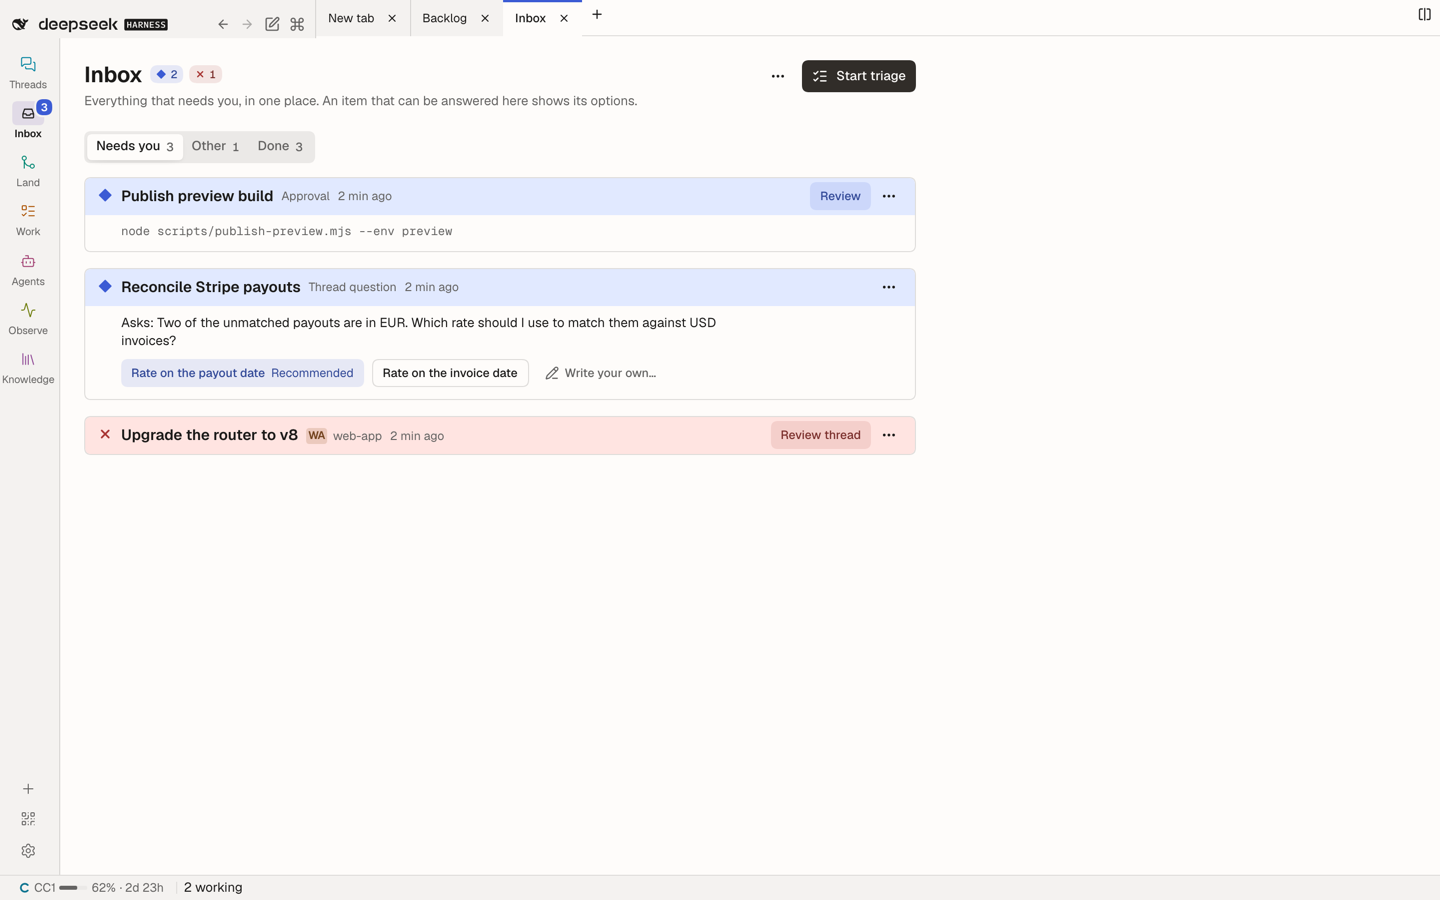
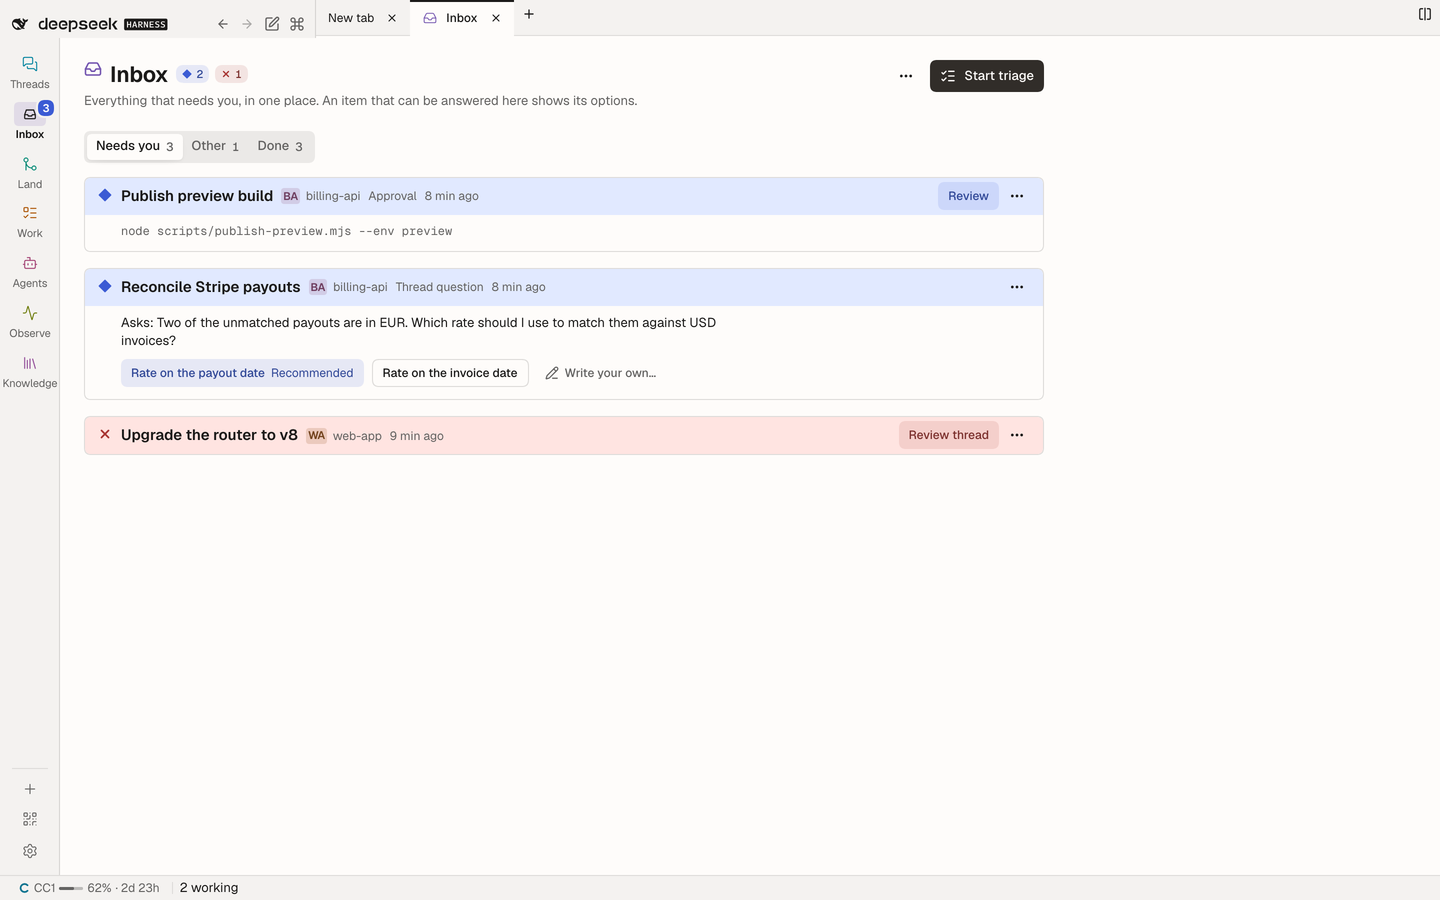
feat(activity-timeline): mark the Inbox title, order card heads and fit the phone Inbox
Council round 7 (C1, C2). The Inbox title takes the rail's Inbox glyph in its tone, and every card head reads title, project, kind, time instead of showing either the project or the kind. On a phone Start triage is a quiet 36px outline button with the page menu on the trailing edge, the failed card's Review pill sits 8px inside the card instead of flush with its band, and 8px (not 12) non-interactive gaps plus 36px foot verbs (44px hit areas kept) let the whole failed card clear the tab bar. The Inbox width already follows the lane rule (960 on its wider pane), so it is unchanged.

diff --git a/plugins/@dshfiles/activity-timeline/src/inbox-panel.tsx b/plugins/@dshfiles/activity-timeline/src/inbox-panel.tsx
@@ -34,7 +34,7 @@ import { ProjectMark } from '@dshfiles/plugin-ui/components/ui/project-mark'
 import { useLastReply, type RetainThread } from '@dshfiles/plugin-ui/hooks/last-reply'
 import { RowGestureModel, useRowGestures } from '@dshfiles/plugin-ui/hooks/row-gestures'
 import { cn } from '@dshfiles/plugin-ui/lib/utils'
-import { BellIcon, CheckIcon, ClockIcon, EllipsisIcon, ListChecksIcon, MessagesSquareIcon, PencilLineIcon, RefreshCwIcon } from '@dshfiles/plugin-ui/icons'
+import { BellIcon, CheckIcon, ClockIcon, EllipsisIcon, InboxIcon, ListChecksIcon, MessagesSquareIcon, PencilLineIcon, RefreshCwIcon } from '@dshfiles/plugin-ui/icons'
 import { runHostRequest } from '@dshfiles/plugin-ui/lib/host-request'
 import { fromPromise, useMachine } from '@dshfiles/plugin-ui/machine'
 import { errorMessage, useMutation, useQuery } from '@dshfiles/plugin-ui/query'
@@ -236,7 +236,8 @@ const InboxRow = (props: {
   const opener = item.subject.kind === 'session' ? undefined : props.openers.get(item.subject.kind)
   const openable = item.subject.kind === 'session' || opener !== undefined
   const openLabel = openLabelOf(item, opener, t)
-  const project = item.subject.kind === 'session' && InboxView.namesProject(item.source) ? props.projectOf(item.subject.id) : undefined
+  const project = item.subject.kind === 'session' ? props.projectOf(item.subject.id) : undefined
+  const head = InboxView.headMeta(item.source, project)
   const referencedThreadId =
     item.subject.kind === 'session'
       ? null
@@ -318,7 +319,14 @@ const InboxRow = (props: {
           {doneable || snoozable || quickReplies.length > 0 || mutable ? (
             <DropdownMenu>
               <DropdownMenuTrigger asChild>
-                <Button size="icon-sm" variant="ghost" className="dshx:size-7 dshx:pointer-coarse:size-11" aria-label={t('more')} disabled={props.busy}>
+                <Button
+                  size="icon-sm"
+                  variant="ghost"
+                  data-inbox-card-menu=""
+                  className="dshx:size-7 dshx:pointer-coarse:size-11"
+                  aria-label={t('more')}
+                  disabled={props.busy}
+                >
                   <EllipsisIcon aria-hidden />
                 </Button>
               </DropdownMenuTrigger>
@@ -454,15 +462,15 @@ const InboxRow = (props: {
       meta={
         <>
           {/* On a phone the band keeps one line (title and age): the body says what is asked ("Asks:", or an approval's command).
-              A finished turn names its thread's project instead of its source, "Thread turns" (round five C4, council round 5). */}
-          {project === undefined ? (
-            <span className="dshx:@max-pane-narrow:hidden">{InboxView.sourceLabel(item.source)}</span>
-          ) : (
+              Every head reads title · project · kind · time (council round 7 C1); a finished turn's project replaces its
+              "Thread turns" kind (round five C4). */}
+          {head.project === undefined ? null : (
             <span data-inbox-project="" className="dshx:inline-flex dshx:min-w-0 dshx:items-center dshx:gap-1.5 dshx:@max-pane-narrow:hidden">
-              <ProjectMark name={project} size="dense" />
-              <span className="dshx:truncate">{project}</span>
+              <ProjectMark name={head.project} size="dense" />
+              <span className="dshx:truncate">{head.project}</span>
             </span>
           )}
+          {head.kind === undefined ? null : <span className="dshx:@max-pane-narrow:hidden">{head.kind}</span>}
           {referencedThreadId === null ? null : (
             <button
               type="button"
@@ -493,6 +501,8 @@ const InboxRow = (props: {
             answerable ? 'dshx:text-sm dshx:text-foreground' : 'dshx:text-xs dshx:text-muted-foreground',
             // The body ends the card unless answers follow it.
             (answers === null || props.actionRow === false) && 'dshx:pb-3',
+            // A phone's foot verbs sit 8px under the body (council round 7 C2).
+            answers === null && footed && hasVerbs && props.actionRow !== false && 'dshx:@max-pane-narrow:pb-2',
           )}
         >
           {reason === null ? null : <span className={cn(clamped && 'dshx:line-clamp-2', 'dshx:break-words', InboxView.TEXT_MEASURE)}>{reason}</span>}
@@ -1314,7 +1324,7 @@ export const InboxPanel = (props: Navigation & { readonly t: InboxTranslate }): 
   if (triaging) {
     const progress = TriageModel.progress(triage.context)
     return (
-      <Page scroll width="lane" heading={t('triage')} description={t('subtitle')}>
+      <Page scroll width="lane" mark={<InboxIcon />} markTone="inbox" heading={t('triage')} description={t('subtitle')}>
         <div
           ref={triageRoot}
           tabIndex={-1}
@@ -1386,13 +1396,20 @@ export const InboxPanel = (props: Navigation & { readonly t: InboxTranslate }): 
   return (
     <Page
       scroll
+      // The rail's Inbox glyph in its tone before the title (council round 7 C1, kit A2).
+      mark={<InboxIcon />}
+      markTone="inbox"
       heading={t('title')}
       // One StatusCount per status present beside the title (◆2 ✕1, round five C3; the kit Page draws them, A5).
       statusCounts={InboxView.titleCounts(counts)}
       // On a phone the top bar names the page (its own h1) and holds its actions (InboxPhoneBar), so the page header
       // goes and the segmented control leads the page.
       description={<span className="dshx:in-data-shell-phone-nav:hidden">{t('subtitle')}</span>}
-      className="dshx:in-data-shell-phone-nav:[&_[data-slot=page-header]]:hidden"
+      className={cn(
+        'dshx:in-data-shell-phone-nav:[&_[data-slot=page-header]]:hidden',
+        // Council round 7 C2: 8px, not 12, above the segmented control and under it, so the failed card clears the tab bar.
+        'dshx:in-data-shell-phone-nav:[&>[data-slot=page-container]]:pt-2 dshx:in-data-shell-phone-nav:[&>[data-slot=page-container]>[data-slot=tabs]]:gap-2',
+      )}
       // The kit's list lane (920px): header and list share one container, so Start triage ends on the list's edge.
       width="lane"
       {...(primaryAction === undefined ? {} : { primaryAction })}

diff --git a/plugins/@dshfiles/activity-timeline/src/inbox-round7.test.ts b/plugins/@dshfiles/activity-timeline/src/inbox-round7.test.ts
@@ -1,0 +1,78 @@
+import { readFileSync } from 'node:fs'
+import { describe, expect, it } from 'vitest'
+import { InboxView } from './inbox-view.js'
+
+const panel = readFileSync(new URL('./inbox-panel.tsx', import.meta.url), 'utf8')
+const row = panel.slice(panel.indexOf('const InboxRow = '), panel.indexOf('const InboxActionSheet = '))
+const page = panel.slice(panel.lastIndexOf('    <Page\n'))
+
+describe('the Inbox page (council round 7 C1)', () => {
+  it('marks its title with the rail glyph in the inbox tone', () => {
+    expect(page).toMatch(/mark=\{<InboxIcon \/>\}\s+markTone="inbox"/u)
+    expect(page).toContain('width="lane"')
+  })
+
+  it('prints every card head in one order: title, project, kind, time', () => {
+    const meta = row.slice(row.indexOf('meta={'), row.indexOf('InboxView.relativeAge(item.openedAt, props.now)'))
+    const projectAt = meta.indexOf('<ProjectMark name={head.project}')
+    const kindAt = meta.indexOf('{head.kind}')
+    expect(projectAt).toBeGreaterThan(-1)
+    expect(kindAt).toBeGreaterThan(projectAt)
+    // Every thread card knows its project, not only a finished turn's.
+    expect(row).toMatch(/const project = item\.subject\.kind === 'session' \? props\.projectOf\(item\.subject\.id\) : undefined/u)
+  })
+
+  it('names the project on every thread card and the kind unless a project already says it', () => {
+    expect(InboxView.headMeta('thread-sidebar.approval', 'billing-api')).toEqual({ project: 'billing-api', kind: 'Approval' })
+    expect(InboxView.headMeta('agent-questions.native-question', 'billing-api')).toEqual({ project: 'billing-api', kind: 'Thread question' })
+    expect(InboxView.headMeta('thread-sidebar.finished-turn', 'web-app')).toEqual({ project: 'web-app', kind: undefined })
+    // With no project known a finished turn still says what it is.
+    expect(InboxView.headMeta('thread-sidebar.finished-turn', undefined)).toEqual({ project: undefined, kind: 'Thread turns' })
+  })
+})
+
+const phoneBar = readFileSync(new URL('./inbox-phone-bar.tsx', import.meta.url), 'utf8')
+const trailingBar = phoneBar.slice(phoneBar.indexOf('data-inbox-phone-bar="trailing"'))
+
+describe('the phone Inbox (council round 7 C2)', () => {
+  it('ends the top bar with the page menu: Start triage first, then the ⋯ on the trailing edge', () => {
+    expect(trailingBar.indexOf('data-page-action={primary.id}')).toBeGreaterThan(-1)
+    expect(trailingBar.indexOf('aria-label={value.moreLabel}')).toBeGreaterThan(trailingBar.indexOf('data-page-action={primary.id}'))
+  })
+
+  it('draws Start triage as a quiet 36px outline button with a 44px hit area, not the ink primary', () => {
+    const primary = trailingBar.slice(trailingBar.indexOf('{primary === undefined ? null : ('), trailingBar.indexOf('data-page-action={primary.id}'))
+    expect(primary).toContain('variant="outline"')
+    expect(primary).toContain('dshx:h-9')
+    expect(primary).toContain('dshx-hit-44')
+    // The 12px small label keeps it clear of the centred "Inbox" title at 390px; the bar's ⋯ is 36px too.
+    expect(primary).not.toContain('dshx:text-sm')
+    const menu = trailingBar.slice(trailingBar.indexOf('<DropdownMenuTrigger'), trailingBar.indexOf('aria-label={value.moreLabel}'))
+    expect(menu).toContain('dshx:size-9')
+    expect(menu).not.toContain('dshx:size-11')
+  })
+
+  it('takes 8px, not 12, from the non-interactive gaps on a phone: page top, tabs to list, body to verb, card end', () => {
+    expect(page).toContain('dshx:in-data-shell-phone-nav:[&>[data-slot=page-container]]:pt-2')
+    expect(page).toContain('dshx:in-data-shell-phone-nav:[&>[data-slot=page-container]>[data-slot=tabs]]:gap-2')
+    expect(InboxView.FOOT_VERBS).toContain('dshx:pb-2')
+    expect(InboxView.FOOT_VERBS).not.toContain('dshx:pb-3')
+    expect(row).toContain("footed && hasVerbs && props.actionRow !== false && 'dshx:@max-pane-narrow:pb-2'")
+    // Answers stay 8px apart.
+    expect(row.slice(row.indexOf('const answers = '), row.indexOf('const row = '))).toContain('dshx:gap-2')
+  })
+
+  it('draws a foot verb 36px tall over the full width; the kit keeps its 44px hit area', () => {
+    expect(InboxView.FOOT_VERB).toContain('dshx:w-full')
+    expect(InboxView.FOOT_VERB).toContain('dshx:h-9!')
+    expect(InboxView.FOOT_VERB).not.toContain('dshx:h-11')
+  })
+
+  it("insets a failed card's Review pill 8px from the card edge: 36px controls, the head padded 12px", () => {
+    expect(InboxView.COMPACT_SEAT).toContain('dshx:@max-pane-narrow:[&_[data-inbox-row-actions=band]]:-my-1!')
+    expect(InboxView.COMPACT_SEAT).toContain('dshx:@max-pane-narrow:[&_[data-inbox-row-actions=band]_[data-slot=button]]:h-9!')
+    expect(InboxView.COMPACT_SEAT).toContain('dshx:@max-pane-narrow:[&_[data-inbox-row-actions=band]_[data-inbox-card-menu]]:size-9!')
+    expect(InboxView.CARD_HEAD).toContain('dshx:@max-pane-narrow:[&>div:first-child]:py-3')
+    expect(row).toContain('data-inbox-card-menu=""')
+  })
+})

diff --git a/plugins/@dshfiles/activity-timeline/src/inbox-view.ts b/plugins/@dshfiles/activity-timeline/src/inbox-view.ts
@@ -109,18 +109,24 @@ const footsVerbs = (compactCard: boolean): boolean => !compactCard
 const HEAD_VERBS_WIDE = 'dshx:contents dshx:@max-pane-narrow:hidden'
 
 /**
- * The verbs at the bottom of a card's body on a compact pane (round six C1): each a full-width 44px button, 12px from the
- * text above and the card's edge, so the title never wraps for a button. Hidden on a wide pane, where the head holds them.
+ * The verbs at the bottom of a card's body on a compact pane (round six C1): each a full-width button, so the title never
+ * wraps for a button. Hidden on a wide pane, where the head holds them. Council round 7 C2: 36px tall (the kit's ::after
+ * keeps a 44px hit area), 8px from the text above and from the card's edge, so a phone fits the failed card.
  */
-const FOOT_VERBS = 'dshx:hidden dshx:flex-col dshx:gap-2 dshx:px-4 dshx:pb-3 dshx:@max-pane-narrow:flex'
-const FOOT_VERB = 'dshx:w-full dshx:h-11'
+const FOOT_VERBS = 'dshx:hidden dshx:flex-col dshx:gap-2 dshx:px-4 dshx:pb-2 dshx:@max-pane-narrow:flex'
+const FOOT_VERB = 'dshx:w-full dshx:h-9!'
 
 /**
  * A bodyless (compact) card on a compact pane: its verb and menu keep to the title line, top-aligned, and the age wraps
  * under the title, so the row never grows the verb's band past the title line.
  */
 const COMPACT_SEAT =
-  'dshx:@max-pane-narrow:[&_[data-slot=entity-row-trailing]]:self-start dshx:@max-pane-narrow:[&_[data-inbox-row-actions=band]]:gap-0'
+  'dshx:@max-pane-narrow:[&_[data-slot=entity-row-trailing]]:self-start dshx:@max-pane-narrow:[&_[data-inbox-row-actions=band]]:gap-0' +
+  // Council round 7 C2: its verb and ⋯ are 36px (44px hit areas), pulled 4px into the 12px head padding, so the pill
+  // sits 8px inside the card's edge instead of flush with the band.
+  ' dshx:@max-pane-narrow:[&_[data-inbox-row-actions=band]]:-my-1! dshx:@max-pane-narrow:[&_[data-inbox-row-actions=band]_[data-slot=button]]:h-9!' +
+  // The ⋯ is a menu trigger, not a kit button slot: it takes 36px by its own hook.
+  ' dshx:@max-pane-narrow:[&_[data-inbox-row-actions=band]_[data-inbox-card-menu]]:size-9!'
 
 /**
  * That verb's 10px inset on a compact pane (a touch screen gives chips 16px) and no gap before the ghost ⋯, so a title
@@ -134,6 +140,23 @@ const shortOpenLabelKey = (action: InboxOpenAction): 'review' | 'open' => (actio
 /** Sources whose type says nothing a card does not (a finished turn): the card names the thread's project instead. */
 const PROJECT_SOURCES: ReadonlySet<string> = new Set(['thread-sidebar.finished-turn'])
 const namesProject = (source: string): boolean => PROJECT_SOURCES.has(source)
+
+/**
+ * What a card head prints after its title, always in one order (council round 7 C1): glyph · title · project · kind ·
+ * time. The project shows whenever the client knows the thread's folder; the kind is left out only where it says nothing
+ * the card does not (a finished turn's "Thread turns") and a project names the card instead.
+ */
+export interface InboxHeadMeta {
+  /** The thread's project, by name, when the client knows its folder. */
+  readonly project: string | undefined
+  /** The item's kind in words ("Approval"), unless the project already names the card. */
+  readonly kind: string | undefined
+}
+
+const headMeta = (source: string, project: string | undefined): InboxHeadMeta => ({
+  project,
+  kind: project !== undefined && namesProject(source) ? undefined : sourceLabel(source),
+})
 
 /** A card's title at the kit's contextual heading step, 15/20 at 600 (council round 4, A4/C3). */
 const TITLE = 'dshx:text-heading'
@@ -351,6 +374,7 @@ export class InboxView {
   static readonly COMPACT_SEAT = COMPACT_SEAT
   static readonly SHORT_VERB = SHORT_VERB
   static readonly namesProject = namesProject
+  static readonly headMeta = headMeta
   static readonly TITLE = TITLE
   static readonly COMMAND = COMMAND
   static readonly cardText = cardText

diff --git a/plugins/@dshfiles/activity-timeline/src/inbox-phone-bar.tsx b/plugins/@dshfiles/activity-timeline/src/inbox-phone-bar.tsx
@@ -63,7 +63,7 @@ export const usePublishInboxPhoneActions = (value: InboxPhoneActions): void => {
 export const InboxPhoneBar = (): JSX.Element | null => {
   const value = useSyncExternalStore(InboxPhoneActionsStore.subscribe, InboxPhoneActionsStore.read, () => undefined)
   // Round five C2: the frame's status button (usage, working threads); no band above the tab bar. Round five C4 (council
-  // round 5): it takes the bar's leading seat, left of the centred title, so the trailing corner (⋯, Start triage) never
+  // round 5): it takes the bar's leading seat, left of the centred title, so the trailing corner (Start triage, ⋯) never
   // runs over "Inbox" at 390 px.
   const status = useContract(PhoneStatus)
   if (value === undefined || (value.primary === undefined && value.actions.length === 0 && status.status !== 'active')) return null
@@ -78,10 +78,27 @@ export const InboxPhoneBar = (): JSX.Element | null => {
           </div>
         ) : null}
         <div data-inbox-phone-bar="trailing" className={InboxView.PHONE_BAR}>
+          {/* Council round 7 C2: Start triage is a quiet 36px outline button (44px hit), not the screen's heaviest object,
+              and the page menu takes the trailing edge, as on every other top bar. Its 12px label and the 36px ⋯ (the
+              kit keeps 44px hit areas) leave the centred "Inbox" title clear at 390px. */}
+          {primary === undefined ? null : (
+            <Button
+              type="button"
+              size="sm"
+              variant="outline"
+              className="dshx-hit-44 dshx:h-9"
+              data-page-action={primary.id}
+              disabled={primary.disabled === true || primary.pending === true}
+              onClick={primary.onSelect}
+            >
+              {primary.icon ?? null}
+              {primary.label}
+            </Button>
+          )}
           {value.actions.length === 0 ? null : (
             <DropdownMenu>
               <DropdownMenuTrigger asChild>
-                <Button type="button" size="icon" variant="ghost" className="dshx:size-11 dshx:text-muted-foreground" aria-label={value.moreLabel}>
+                <Button type="button" size="icon" variant="ghost" className="dshx:size-9 dshx:text-muted-foreground" aria-label={value.moreLabel}>
                   <EllipsisIcon aria-hidden />
                 </Button>
               </DropdownMenuTrigger>
@@ -94,19 +111,6 @@ export const InboxPhoneBar = (): JSX.Element | null => {
                 ))}
               </DropdownMenuContent>
             </DropdownMenu>
-          )}
-          {primary === undefined ? null : (
-            <Button
-              type="button"
-              size="sm"
-              className="dshx-hit-44"
-              data-page-action={primary.id}
-              disabled={primary.disabled === true || primary.pending === true}
-              onClick={primary.onSelect}
-            >
-              {primary.icon ?? null}
-              {primary.label}
-            </Button>
           )}
         </div>
       </DialogPortal>

diff --git a/plugins/@dshfiles/activity-timeline/src/inbox-round6.test.ts b/plugins/@dshfiles/activity-timeline/src/inbox-round6.test.ts
@@ -16,14 +16,14 @@ describe('a phone Inbox card (round six C1)', () => {
     expect(InboxView.HEAD_SEAT).toContain('dshx:@max-pane-narrow:-my-3!')
   })
 
-  it('moves the verb of a card with a body to a full-width 44px button at the bottom of the body', () => {
+  it('moves the verb of a card with a body to a full-width button at the bottom of the body (36px since council round 7 C2)', () => {
     expect(InboxView.footsVerbs(false)).toBe(true)
     expect(InboxView.FOOT_VERBS).toContain('dshx:hidden')
     expect(InboxView.FOOT_VERBS).toContain('dshx:@max-pane-narrow:flex')
     expect(InboxView.FOOT_VERBS).toContain('dshx:px-4')
-    expect(InboxView.FOOT_VERBS).toContain('dshx:pb-3')
+    expect(InboxView.FOOT_VERBS).toContain('dshx:pb-2')
     expect(InboxView.FOOT_VERB).toContain('dshx:w-full')
-    expect(InboxView.FOOT_VERB).toContain('dshx:h-11')
+    expect(InboxView.FOOT_VERB).toContain('dshx:h-9!')
     // The head keeps the verbs on a wide pane and only the menu on a compact one.
     expect(InboxView.HEAD_VERBS_WIDE).toContain('dshx:@max-pane-narrow:hidden')
     const foot = between('data-inbox-row-actions="foot"', '</div>')

diff --git a/plugins/@dshfiles/activity-timeline/src/inbox-round5.test.ts b/plugins/@dshfiles/activity-timeline/src/inbox-round5.test.ts
@@ -52,7 +52,7 @@ describe('an Inbox card (round five C4, council round 5)', () => {
     expect(InboxView.namesProject('thread-sidebar.finished-turn')).toBe(true)
     expect(InboxView.namesProject('thread-sidebar.approval')).toBe(false)
     expect(InboxView.namesProject('agent-questions.native-question')).toBe(false)
-    expect(row).toMatch(/<ProjectMark name=\{project\} size="dense" \/>/u)
+    expect(row).toMatch(/<ProjectMark name=\{head\.project\} size="dense" \/>/u)
     expect(panel).toContain('EntityLabels.useWorkspaceLabel(props.workspaces)')
   })
 

diff --git a/plugins/@dshfiles/activity-timeline/src/inbox-attention.test.ts b/plugins/@dshfiles/activity-timeline/src/inbox-attention.test.ts
@@ -112,7 +112,7 @@ describe('Inbox on a phone (round five P2)', () => {
   })
 
   it('keeps the phone head band to one line: the type label leaves narrow panes', () => {
-    expect(row).toContain('<span className="dshx:@max-pane-narrow:hidden">{InboxView.sourceLabel(item.source)}</span>')
+    expect(row).toContain('<span className="dshx:@max-pane-narrow:hidden">{head.kind}</span>')
     expect(row).toMatch(/data-inbox-project="" className="[^"]*dshx:@max-pane-narrow:hidden/u)
   })
 
